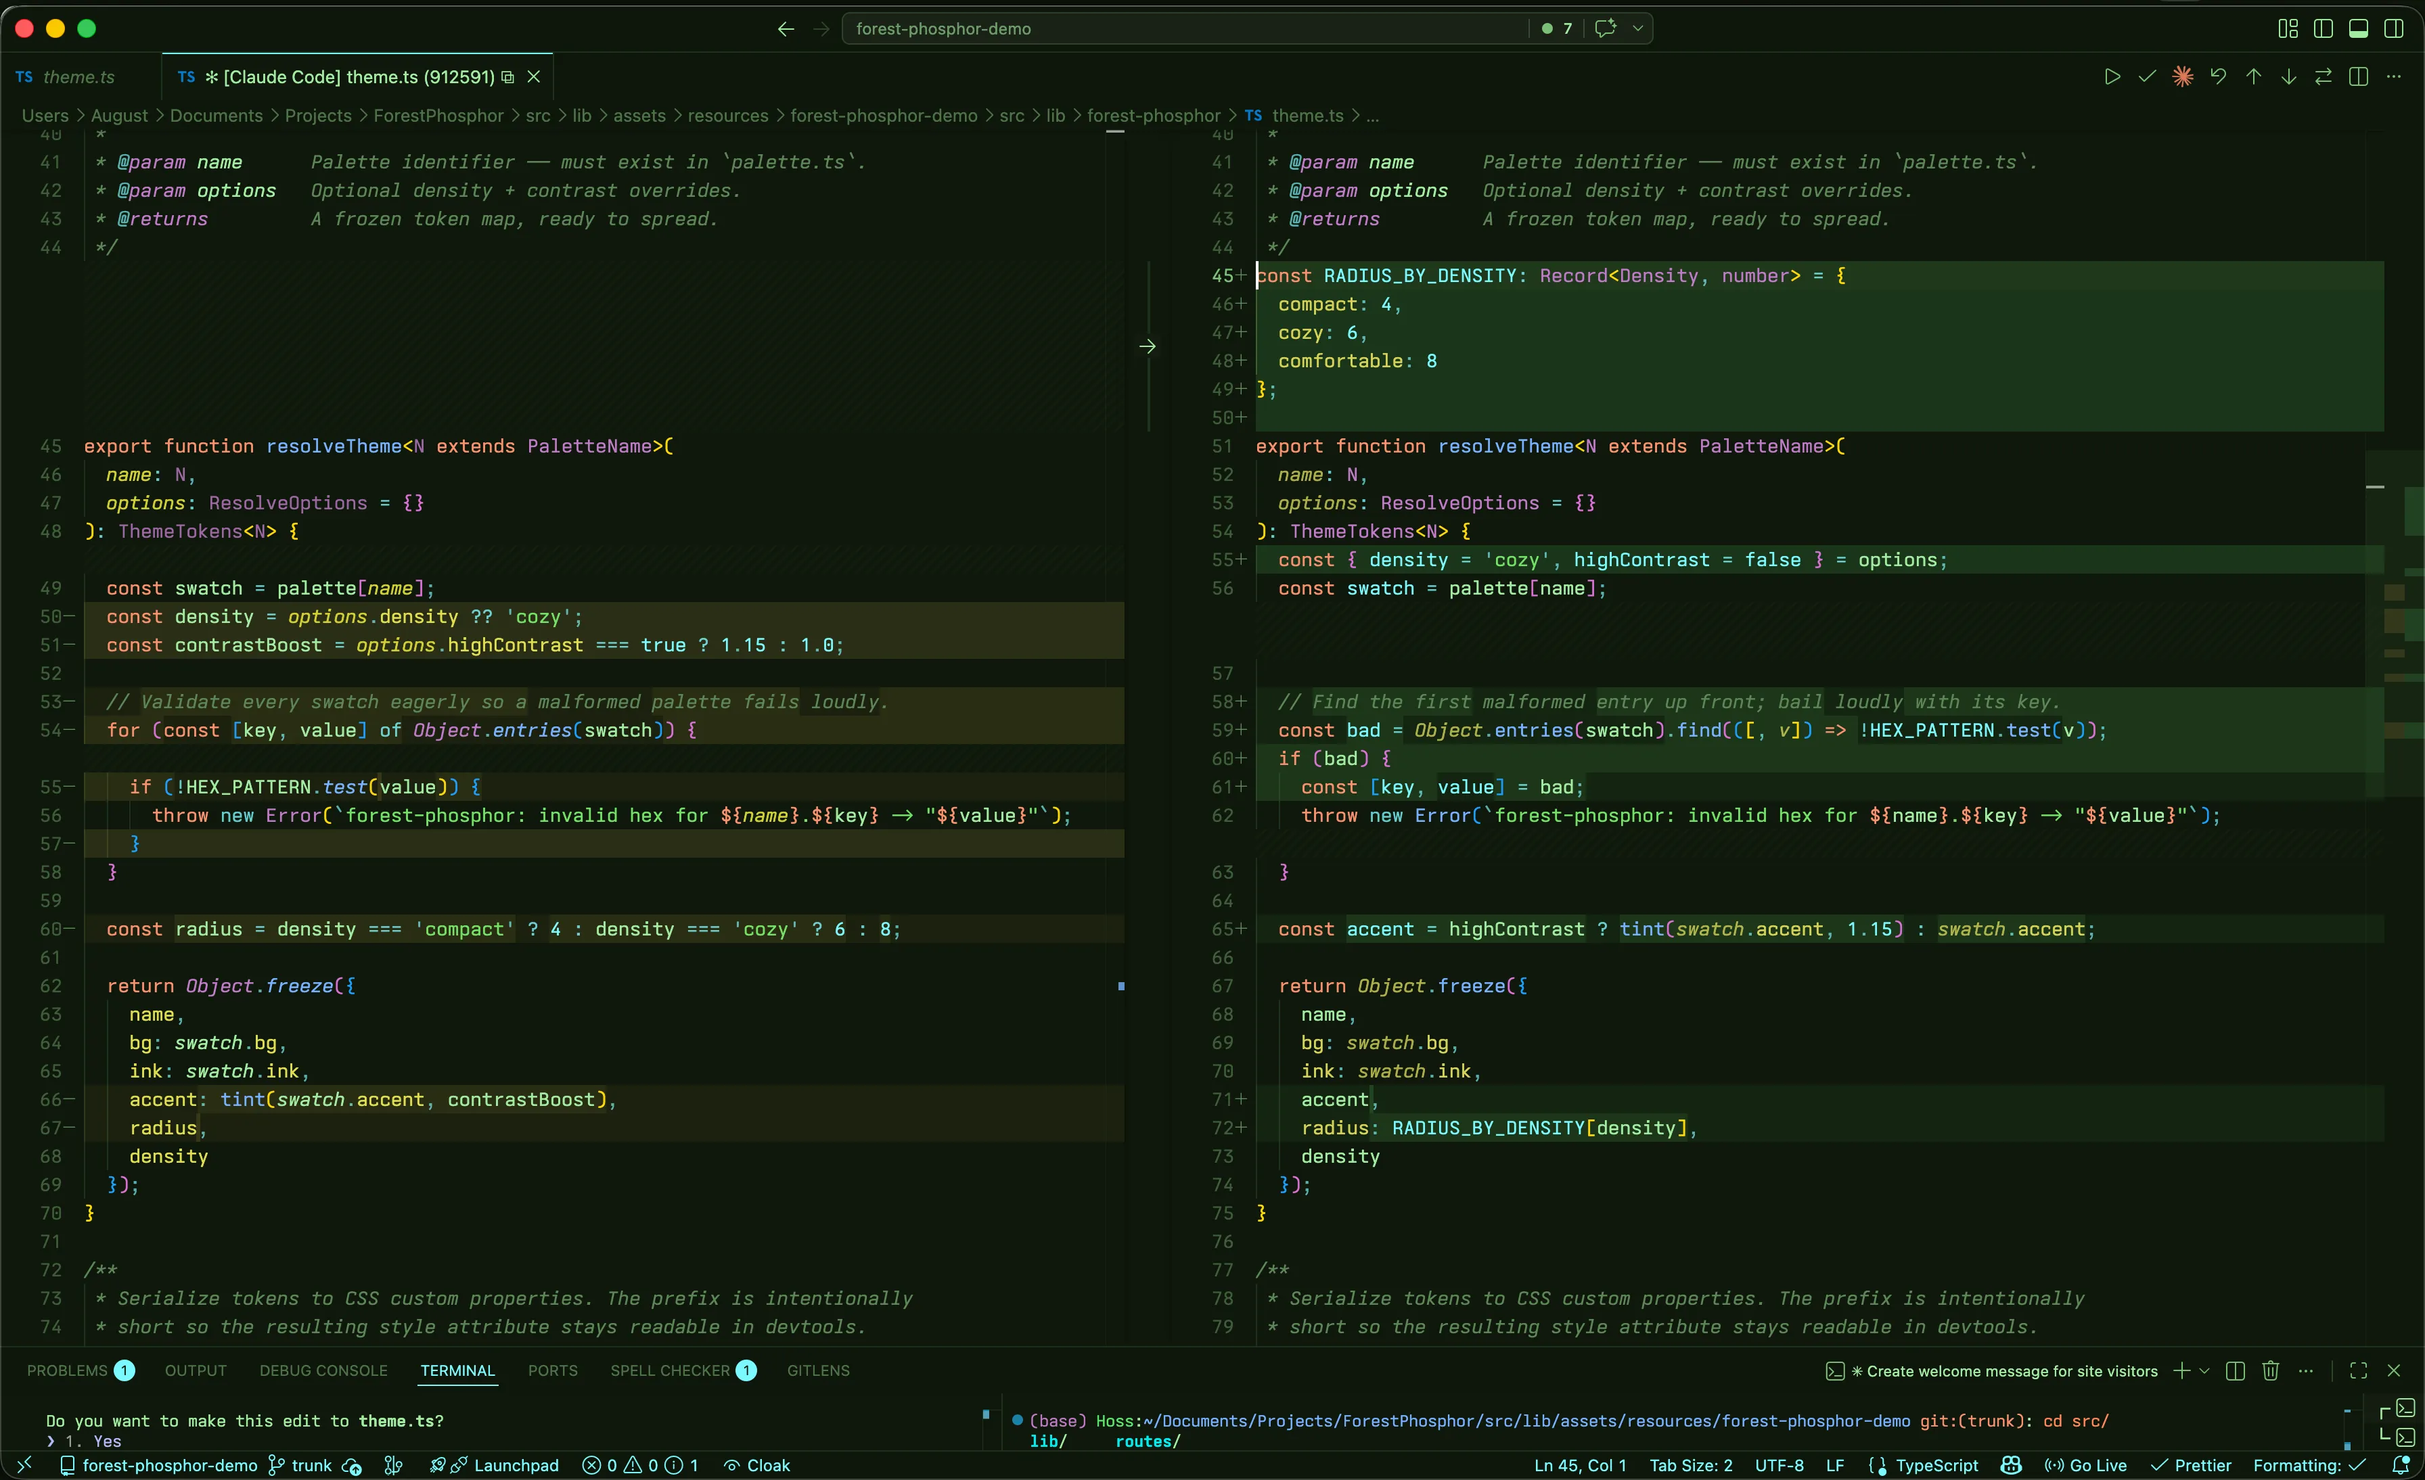
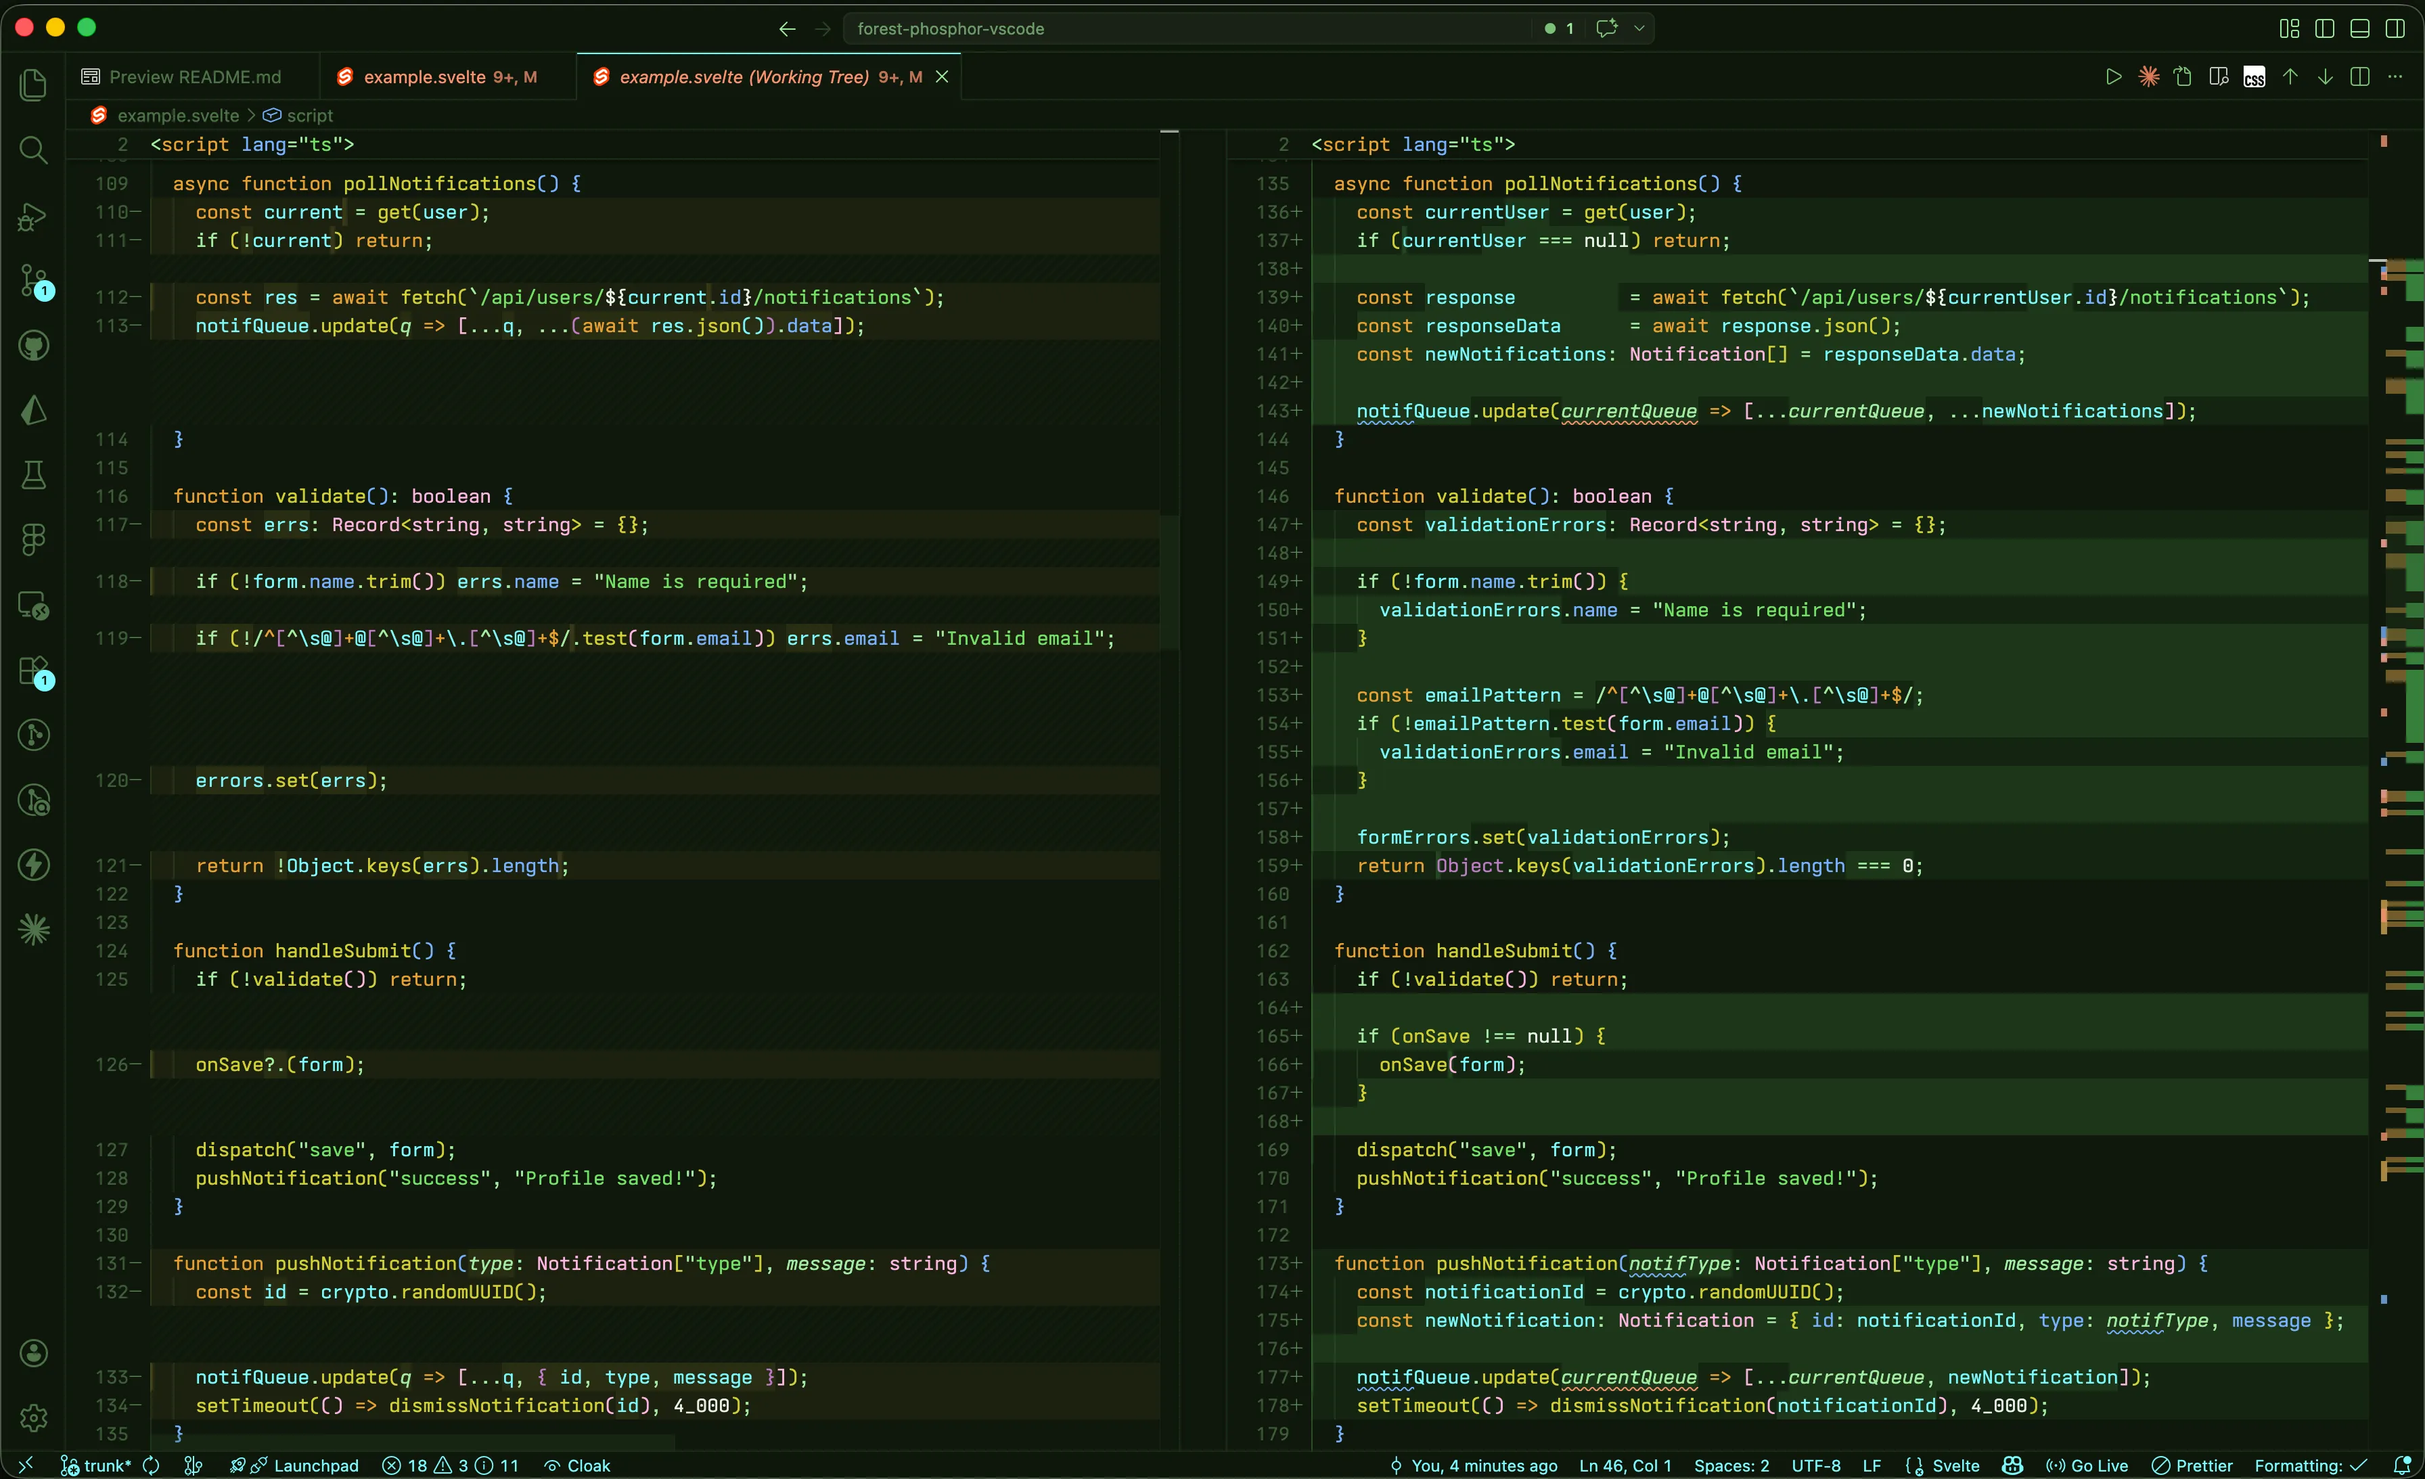
new diff image too, changes to svelte example for dif image

diff --git a/example.svelte b/example.svelte
@@ -43,13 +43,20 @@
 
   // ─── Stores ───────────────────────────────────────────────────────────────
 
-  const user       = writable<User | null>(null);
-  const loading    = writable(true);
-  const errors     = writable<Record<string, string>>({});
-  const notifQueue = writable<Notification[]>([]);
+  const user             = writable<User | null>(null);
+  const loading          = writable(true);
+  const formErrors       = writable<Record<string, string>>({});
+  const notifQueue       = writable<Notification[]>([]);
 
-  const isAdmin  = derived(user, $u => $u?.role === "admin");
-  const fullName = derived(user, $u => $u?.name ?? "Anonymous");
+  const isAdmin = derived(user, (currentUser) => {
+    if (currentUser === null) return false;
+    return currentUser.role === "admin";
+  });
+
+  const fullName = derived(user, (currentUser) => {
+    if (currentUser === null) return "Anonymous";
+    return currentUser.name;
+  });
 
   // ─── State ────────────────────────────────────────────────────────────────
 
@@ -60,19 +67,35 @@
   let selectedIndex = -1;
   let inputRef: HTMLInputElement;
 
+  // Local copies of settings used for two-way binding
+  let notificationsEnabled = false;
+  let darkModeEnabled = false;
+  let selectedLanguage = "en";
+
   // ─── Reactive declarations ────────────────────────────────────────────────
 
-  $: isFormDirty = form.name !== ($user?.name ?? "") ||
-                   form.email !== ($user?.email ?? "");
+  let isFormDirty = false;
+  $: {
+    const savedName  = $user !== null ? $user.name  : "";
+    const savedEmail = $user !== null ? $user.email : "";
+    isFormDirty = form.name !== savedName || form.email !== savedEmail;
+  }
 
   $: truncatedItems = items.slice(0, maxItems);
 
   $: if ($user) {
-    form = { name: $user.name, email: $user.email, bio: "" };
+    form                  = { name: $user.name, email: $user.email, bio: "" };
+    notificationsEnabled  = $user.settings.notifications;
+    darkModeEnabled       = $user.settings.darkMode;
+    selectedLanguage      = $user.settings.language;
   }
 
-  $: tabClass = (tab: string) =>
-    `tab ${activeTab === tab ? "tab--active" : ""}`;
+  function getTabClass(tabName: string): string {
+    if (activeTab === tabName) {
+      return "tab tab--active";
+    }
+    return "tab";
+  }
 
   // ─── Lifecycle ───────────────────────────────────────────────────────────
 
@@ -82,71 +105,117 @@
     error:  { message: string };
   }>();
 
-  let interval: ReturnType<typeof setInterval>;
+  let pollingInterval: ReturnType<typeof setInterval>;
 
   onMount(async () => {
     await fetchUser(userId);
-    interval = setInterval(pollNotifications, 30_000);
-    inputRef?.focus();
+    pollingInterval = setInterval(pollNotifications, 30_000);
+    if (inputRef) {
+      inputRef.focus();
+    }
   });
 
-  onDestroy(() => clearInterval(interval));
+  onDestroy(() => clearInterval(pollingInterval));
 
   // ─── Functions ────────────────────────────────────────────────────────────
 
   async function fetchUser(id: number) {
     loading.set(true);
     try {
-      const res = await fetch(`/api/users/${id}`);
-      user.set((await res.json()).data);
-    } catch (e) {
-      dispatch("error", { message: (e as Error).message });
+      const response     = await fetch(`/api/users/${id}`);
+      const responseData = await response.json();
+      user.set(responseData.data);
+    } catch (fetchError) {
+      dispatch("error", { message: (fetchError as Error).message });
     } finally {
       loading.set(false);
     }
   }
 
   async function pollNotifications() {
-    const current = get(user);
-    if (!current) return;
-    const res = await fetch(`/api/users/${current.id}/notifications`);
-    notifQueue.update(q => [...q, ...(await res.json()).data]);
+    const currentUser = get(user);
+    if (currentUser === null) return;
+
+    const response          = await fetch(`/api/users/${currentUser.id}/notifications`);
+    const responseData      = await response.json();
+    const newNotifications: Notification[] = responseData.data;
+
+    notifQueue.update(currentQueue => [...currentQueue, ...newNotifications]);
   }
 
   function validate(): boolean {
-    const errs: Record<string, string> = {};
-    if (!form.name.trim()) errs.name = "Name is required";
-    if (!/^[^\s@]+@[^\s@]+\.[^\s@]+$/.test(form.email)) errs.email = "Invalid email";
-    errors.set(errs);
-    return !Object.keys(errs).length;
+    const validationErrors: Record<string, string> = {};
+
+    if (!form.name.trim()) {
+      validationErrors.name = "Name is required";
+    }
+
+    const emailPattern = /^[^\s@]+@[^\s@]+\.[^\s@]+$/;
+    if (!emailPattern.test(form.email)) {
+      validationErrors.email = "Invalid email";
+    }
+
+    formErrors.set(validationErrors);
+    return Object.keys(validationErrors).length === 0;
   }
 
   function handleSubmit() {
     if (!validate()) return;
-    onSave?.(form);
+
+    if (onSave !== null) {
+      onSave(form);
+    }
+
     dispatch("save", form);
     pushNotification("success", "Profile saved!");
   }
 
-  function pushNotification(type: Notification["type"], message: string) {
-    const id = crypto.randomUUID();
-    notifQueue.update(q => [...q, { id, type, message }]);
-    setTimeout(() => dismissNotification(id), 4_000);
+  function pushNotification(notifType: Notification["type"], message: string) {
+    const notificationId = crypto.randomUUID();
+    const newNotification: Notification = { id: notificationId, type: notifType, message };
+
+    notifQueue.update(currentQueue => [...currentQueue, newNotification]);
+    setTimeout(() => dismissNotification(notificationId), 4_000);
   }
 
-  function dismissNotification(id: string) {
-    notifQueue.update(q => q.filter(n => n.id !== id));
+  function dismissNotification(notificationId: string) {
+    notifQueue.update(currentQueue =>
+      currentQueue.filter(notification => notification.id !== notificationId)
+    );
   }
 
-  function handleKeydown(e: KeyboardEvent) {
-    if (e.key === "Escape")     { showPanel = false; return; }
-    if (e.key === "ArrowDown")  selectedIndex = Math.min(selectedIndex + 1, items.length - 1);
-    if (e.key === "ArrowUp")    selectedIndex = Math.max(selectedIndex - 1, 0);
+  function handleKeydown(event: KeyboardEvent) {
+    if (event.key === "Escape") {
+      showPanel = false;
+      return;
+    }
+    if (event.key === "ArrowDown") {
+      selectedIndex = Math.min(selectedIndex + 1, items.length - 1);
+    }
+    if (event.key === "ArrowUp") {
+      selectedIndex = Math.max(selectedIndex - 1, 0);
+    }
+  }
+
+  function handleSettingsChange() {
+    user.update(currentUser => {
+      if (currentUser === null) return null;
+      return {
+        ...currentUser,
+        settings: {
+          notifications: notificationsEnabled,
+          darkMode:      darkModeEnabled,
+          language:      selectedLanguage,
+        },
+      };
+    });
   }
 
   // property.property chains for theme testing ↓
-  function describeUser(u: User): string {
-    return `${u.name} — ${u.settings.language} — notifs ${u.settings.notifications ? "on" : "off"} — ${u.settings.darkMode ? "dark" : "light"} mode`;
+  function describeUser(targetUser: User): string {
+    const notificationStatus = targetUser.settings.notifications ? "on" : "off";
+    const colorMode          = targetUser.settings.darkMode ? "dark" : "light";
+    return `${targetUser.name} — ${targetUser.settings.language} — notifs ${notificationStatus} — ${colorMode} mode`;
   }
 </script>
 
@@ -157,14 +226,14 @@
 <div class="root" class:root--dark={theme === "dark"} data-testid="user-panel">
 
   <!-- Notification stack -->
-  {#each $notifQueue as notif (notif.id)}
+  {#each $notifQueue as notification (notification.id)}
     <div
-      class="notif notif--{notif.type}"
+      class="notif notif--{notification.type}"
       transition:fly={{ y: -20, duration: 250, easing: cubicOut }}
       role="alert"
     >
-      <span>{notif.message}</span>
-      <button on:click={() => dismissNotification(notif.id)} aria-label="Dismiss">×</button>
+      <span>{notification.message}</span>
+      <button on:click={() => dismissNotification(notification.id)} aria-label="Dismiss">×</button>
     </div>
   {/each}
 
@@ -177,7 +246,7 @@
   {:else if $user}
     <header class="header">
       <img
-        src={$user.avatar ?? "/default-avatar.png"}
+        src={$user.avatar !== null ? $user.avatar : "/default-avatar.png"}
         alt="{$user.name}'s avatar"
         class="avatar"
       />
@@ -188,21 +257,21 @@
           <span class="badge badge--admin">Admin</span>
         {/if}
       </div>
-      <button class="btn btn--icon" on:click={() => (showPanel = !showPanel)}>
+      <button class="btn btn--icon" on:click={() => { showPanel = !showPanel; }}>
         {showPanel ? "Close" : "Edit"}
       </button>
     </header>
 
     <!-- Tab bar -->
     <nav class="tabs" role="tablist">
-      {#each ["profile", "settings", "activity"] as tab}
+      {#each ["profile", "settings", "activity"] as tabName}
         <button
           role="tab"
-          class={tabClass(tab)}
-          aria-selected={activeTab === tab}
-          on:click={() => (activeTab = tab)}
+          class={getTabClass(tabName)}
+          aria-selected={activeTab === tabName}
+          on:click={() => { activeTab = tabName; }}
         >
-          {tab}
+          {tabName}
         </button>
       {/each}
     </nav>
@@ -219,12 +288,12 @@
               <input
                 bind:this={inputRef}
                 bind:value={form.name}
-                class:field__input--error={$errors.name}
+                class:field__input--error={$formErrors.name}
                 placeholder="Full name"
                 autocomplete="name"
               />
-              {#if $errors.name}
-                <small class="field__error">{$errors.name}</small>
+              {#if $formErrors.name}
+                <small class="field__error">{$formErrors.name}</small>
               {/if}
             </label>
 
@@ -233,12 +302,12 @@
               <input
                 bind:value={form.email}
                 type="email"
-                class:field__input--error={$errors.email}
+                class:field__input--error={$formErrors.email}
                 placeholder="you@example.com"
                 autocomplete="email"
               />
-              {#if $errors.email}
-                <small class="field__error">{$errors.email}</small>
+              {#if $formErrors.email}
+                <small class="field__error">{$formErrors.email}</small>
               {/if}
             </label>
 
@@ -258,16 +327,24 @@
     {:else if activeTab === "settings"}
       <section transition:slide={{ duration: 200 }}>
         <label class="toggle">
-          <input type="checkbox" bind:checked={$user.settings.notifications} />
+          <input
+            type="checkbox"
+            bind:checked={notificationsEnabled}
+            on:change={handleSettingsChange}
+          />
           <span>Email notifications</span>
         </label>
         <label class="toggle">
-          <input type="checkbox" bind:checked={$user.settings.darkMode} />
+          <input
+            type="checkbox"
+            bind:checked={darkModeEnabled}
+            on:change={handleSettingsChange}
+          />
           <span>Dark mode</span>
         </label>
-        <select bind:value={$user.settings.language}>
-          {#each ["en", "es", "fr", "de", "ja"] as lang}
-            <option value={lang}>{lang.toUpperCase()}</option>
+        <select bind:value={selectedLanguage} on:change={handleSettingsChange}>
+          {#each ["en", "es", "fr", "de", "ja"] as languageCode}
+            <option value={languageCode}>{languageCode.toUpperCase()}</option>
           {/each}
         </select>
       </section>
@@ -275,11 +352,11 @@
     {:else if activeTab === "activity"}
       <section transition:slide={{ duration: 200 }}>
         <ul class="item-list">
-          {#each truncatedItems as item, i (i)}
+          {#each truncatedItems as item, itemIndex (itemIndex)}
             <li
               class="item"
-              class:item--selected={selectedIndex === i}
-              on:click={() => (selectedIndex = i)}
+              class:item--selected={selectedIndex === itemIndex}
+              on:click={() => { selectedIndex = itemIndex; }}
             >
               {item}
             </li>
